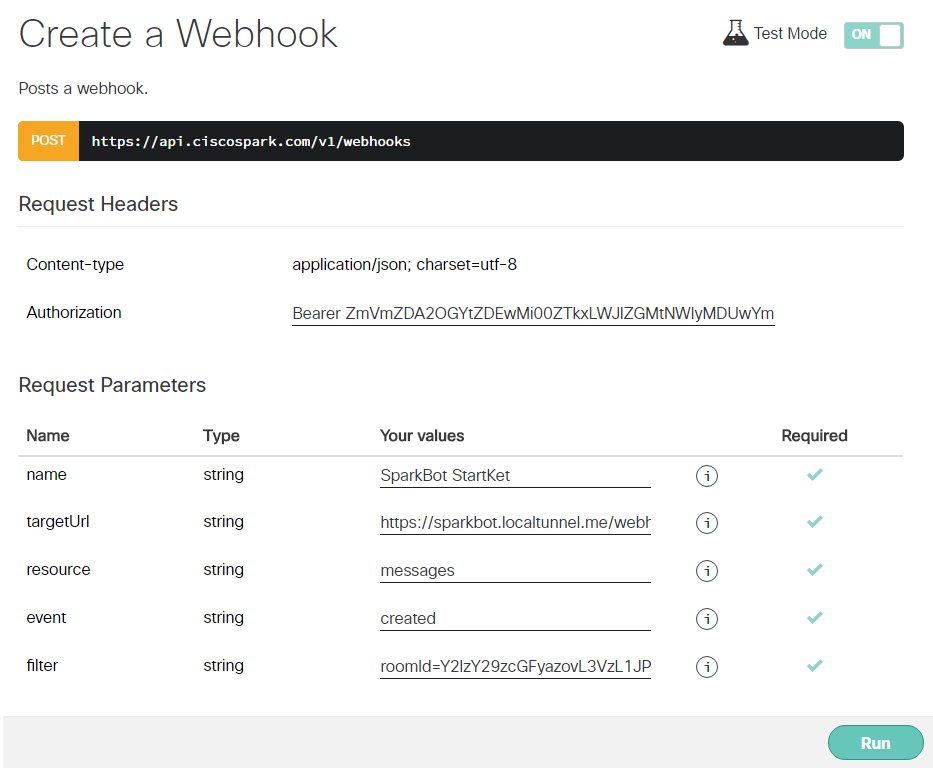
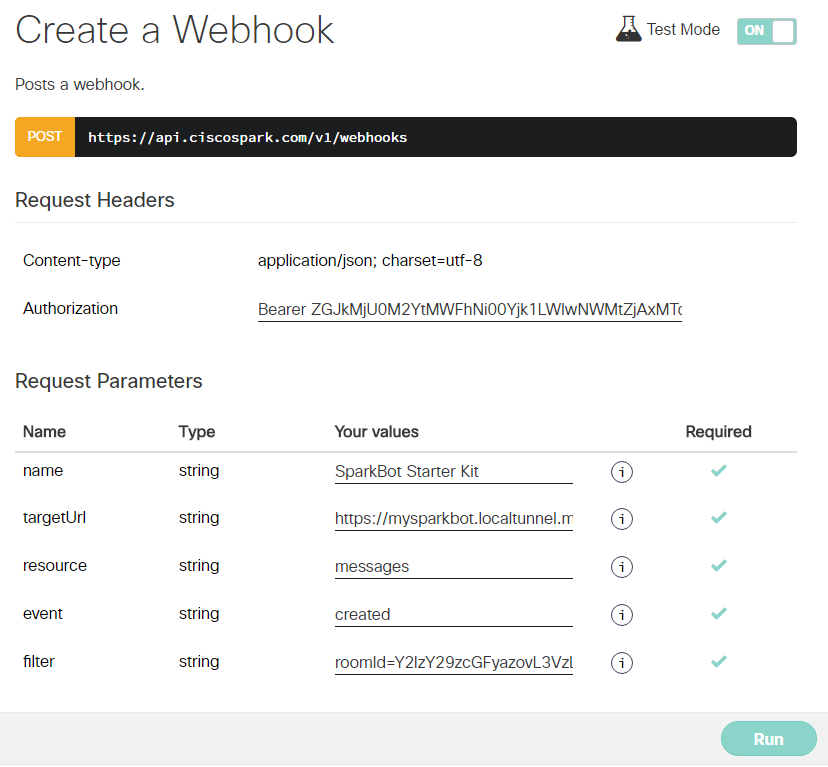
added basic outgoing sample, tested ok

diff --git a/sparkbot/bot.js b/sparkbot/bot.js
@@ -42,8 +42,8 @@ function Webhook(config) {
 	}
 
 	if (!config) {
-		console.log('bot configuration error');
-		throw createError('configuration: no api token found');
+		console.log('No configuration, exiting...');
+		throw createError('bot configuration error');
 	}
 
 	// type is webhook by default
@@ -88,13 +88,13 @@ function Webhook(config) {
 				res.status(400).json({message: 'This REST webhook is expecting an HTTP POST'});
 			})
 			.post(function (req, res) {
-				console.log('REST webhook invoked ');
+				console.log('REST webhook invoked');
 
 				// retreive message contents from spark
-				if (!req.body.data) {
+				if (!req.body || !req.body.data) {
 					console.log('Unexpected payload, check webhook configuration')
 					res.status(400).json({message: 'Wrong payload, a data payload is expected for REST webhooks',
-										  details: 'either the bot is misconfigured (should be an outgoing integration ?), or Cisco Spark is running a new API version'});
+										  details: 'either the bot is misconfigured or Cisco Spark is running a new API version'});
 					return;
 				}
 
@@ -103,11 +103,11 @@ function Webhook(config) {
 					'method': 'GET',
 					'hostname': 'api.ciscospark.com',
 					'path': '/v1/messages/' + newMessageEvent.id,
-					'headers': {'authorization': 'Bearer ' + sparkToken}
+					'headers': {'authorization': 'Bearer ' + config.token}
 				};
-				console.log('Asking for decrypted message: ' + JSON.stringify(message));
+				console.log('Asking for decrypted message');
 				var req = https.request(options, function (response) {
-					console.log('Received decrypted message: ' + JSON.stringify(message));
+					console.log('Received decrypted message, decoding');
 					var chunks = [];
 					response.on('data', function (chunk) {
 						chunks.push(chunk);

diff --git a/examples/basic-integration.js b/examples/basic-integration.js
@@ -1,7 +1,7 @@
 /*
  * Simple bot that echoes to the console as all new messages posted in a Cisco Spark Room
  *
- * Illustrate an Outgoing integration
+ * Illustrate a REST Webhook
  *
  * Check the documentation to set up this example
  *
@@ -9,9 +9,9 @@
 var SparkBot = require("../sparkbot");
 
 var config = {
-  attach_as: "integration"
-  //port: 8080,
-  //URI: "/integration"
+  attach_as: "integration",
+  port: 8080,
+  URI: "/integration"
 };
 
 // initialize and start bot
@@ -19,7 +19,7 @@ var bot = new SparkBot(config);
 
 // register a basic echo function
 bot.register(function(message) {
-  console.log("new message from " + message.personEmail + ": " + message.text)
+  console.log("New message from " + message.personEmail + ": " + message.text)
 });
 
 

diff --git a/examples/basic-webhook.js b/examples/basic-webhook.js
@@ -10,16 +10,16 @@ var config = {
   // bot spark api token, mandatory for webhooks
   token: process.env.SPARK_TOKEN,
 
-  //attach_as: "webhook",
-  //port: 8080,
-  //URI: "/sparkbot"
+  attach_as: "webhook",
+  port: 8080,
+  URI: "/webhook"
 };
 
 // init flint framework
 var bot = new SparkBot(config);
 
-// echo test
-//bot.process(function(message) {
-//  console.log("received text: " + message.text + ", from: " + message.personEmail)
-//});
+// register a basic echo function
+bot.register(function(message) {
+  console.log("New message from " + message.personEmail + ": " + message.text)
+});
 

diff --git a/docs/BasicWebhookSample.md b/docs/BasicWebhookSample.md
@@ -1,0 +1,93 @@
+# Basic example of REST Webhook
+
+illustrates how to setup a Cisco Spark bot, and attached it to a Room as a [REST Webhook](https://developer.ciscospark.com/webhooks-explained.html).
+
+Quick steps:
+
+1. Run the example
+
+2. Expose your sparkbot to the internet
+
+3. Attach your bot to a spark room
+
+4. Write a message in the room you attached you bot
+
+
+## Run the example
+
+Retreive your API token can be retreived by clicking on your picture, in the upper right of the [Web Portal documentation](https://developer.ciscospark.com/getting-started.html#).
+
+![](docs/img/SparkApiToken.png)
+
+Open a shell, clone the current github repository if you did not do it yet, then type the commands below.
+
+```
+> cd examples
+>  SPARK_TOKEN=ZGJkMjU0M2YtMWFhNi00Yjk1LWIwNWMtZjAxMTczMDljMDQyNzZlODQzNmYtZjBk    node basic-webhook.js
+Cisco Spark bot started
+REST webhook, running on port 8080
+```
+
+You can test your bot is running by hitting its health endpoint:
+
+```
+> curl -X GET http://localhost:8080/ping
+{
+ "message":"Congrats, your bot is up and running",
+ "isWebhook":true,
+ "isIntegration":false,
+ "URI":"http://localhost:8080/webhook"
+}
+```
+
+
+## Expose your bot to the internet
+
+You'll need a tunneling took such as [localtunnel](http://localtunnel.me) or [ngrok](https://ngrok.com).
+
+```
+> npm install -g localtunnel
+> lt -s mysparkbot -p 8080
+your url is: https://mysparkbot.localtunnel.me
+```
+
+
+## Attach your bot to a spark room
+
+You can either use the [WebHook intertactive documentation](https://developer.ciscospark.com/resource-webhooks.html), or leverage your favorite REST client (curl, Postman...).
+This guide leverages the interactive documentation.
+
+First, we'll pick the id of the Room you want to attach to. Go to the [List Rooms page](https://developer.ciscospark.com/endpoint-rooms-get.html).
+
+![](img/ListRooms.png)
+
+Toogle Test mode to on. Run the request, navigate to a Room from the list displayed in the right pane. Copy page the id of the Room, here Y2lzY29zcGFyazovL3VzL1JPT00vMjQ4ZTQ3OTAtZWJjZi0xMWU1LTkyMjEtMTVmMTZiMmJlZjUx.
+
+![](img/PickRoomId.png)
+
+Then, go to the[ Webhook creation page](https://developer.ciscospark.com/endpoint-webhooks-post.html), and fill in the form.
+Specify the targetUrl you chose when exposing your webhook, here https://mysparkbot.localtunnel.me/webhook.
+
+![](img/AddWebhookViaAPI.png)
+
+Run the webhook creation, and check you get a 200 OK in the right pane:
+
+![](img/AddWebhookViaAPI-feedback.png)
+
+
+## Test your bot
+
+Write a message in the room you attached your bot to.
+
+The bot should write to the console:
+
+```
+> SPARK_TOKEN=ZGJkMjU0M2YtMXXXX  node basic-webhook.js
+Cisco Spark bot started
+REST webhook, running on port 8080
+REST webhook invoked
+Asking for decrypted message
+Received decrypted message, decoding
[1 lines of base64/hex data omitted]
+New message from stsfartz@cisco.com: completed the basic webhook sample
+```

diff --git a/docs/BasicIntegrationSample.md b/docs/BasicIntegrationSample.md
@@ -1,17 +1,16 @@
 # Basic example of Outgoing integration
 
-illustrates how to setup a Cisco Spark bot, and attached it to a Room as an Outgoing integration
+illustrates how to setup a Cisco Spark bot, and attached it to a Room as an Outgoing [integration](https://developer.ciscospark.com/integrations.html).
 
-Quick steps
+Quick steps:
 
 1. Run the example
 
-2. Expose your sparkbot to the internet
+2. Expose your bot to the internet
 
-3. Attach it to a spark room
+3. Attach your bot to a spark room
 
 4. Write a message in the room you attached you bot
-
 
 
 ## Run the example
@@ -48,9 +47,9 @@ curl -X POST -H "Content-Type: application/json" \
 ```
 
 
-## Expose your sparkbot to the internet
+## Expose your bot to the internet
 
-You'll need a tunneling took such as ngrok, localtunnel
+You'll need a tunneling took such as [localtunnel](http://localtunnel.me) or [ngrok](https://ngrok.com).
 
 ```
 > npm install -g localtunnel
@@ -58,24 +57,45 @@ You'll need a tunneling took such as ngrok, localtunnel
 your url is: https://mysparkbot.localtunnel.me
 ```
 
+You can test your bot is exposed on the internet by hitting its health endpoint again. 
 
-## Attach your sparkbot to a spark room
+Note: we'll use the https 
+
+```
+> curl -X GET http://mysparkbot.localtunnel.me/ping
+{
+ "message":"Congrats, your bot is up and running",
+ "isWebhook":false,
+ "isIntegration":true,
+ "URI":"http://localhost:8080/"
+}
+```
+
+
+
+
+## Attach your bot to a spark room
 
 Launch the Cisco Spark Web client : https://web.ciscospark.com
 
-Go to the right pane, locate the Integrations section, ![](img/AddOutgoingIntegration-ViaWebClient-Step0.png)
+Go to the right pane, locate the Integrations section:
 
-Select Add integration, scroll down and click the Outgoing integration ![](img/AddOutgoingIntegration-ViaWebClient-Step1.png)
+  ![](img/AddOutgoingIntegration-ViaWebClient-Step0.png)
 
-Go through the wizard, choose a room and specify your bot endpoint: https://mysparkbot.localtunnel.me, ![](img/AddOutgoingIntegration-ViaWebClient-Step3.png)
+Select Add integration, scroll down and click the Outgoing integration:
+
+  ![](img/AddOutgoingIntegration-ViaWebClient-Step1.png)
+
+Go through the wizard, choose a room and specify your bot endpoint: https://mysparkbot.localtunnel.me
+
+  ![](img/AddOutgoingIntegration-ViaWebClient-Step3.png)
 
 
 ## Test your bot
 
-Write a message in the room you attached your bot to,
+Write a message in the room you attached your bot to.
 
-The bot should write to the console
-
+The bot should write to the console:
 
 ```
 > node basic-integration.js
@@ -83,5 +103,5 @@ Cisco Spark bot started
 Outgoing integration, running on port 8080
 Outgoing integration invoked
[1 lines of base64/hex data omitted]
-new message from stsfartz@cisco.com: Completed the basic outgoing integration sample
+New message from stsfartz@cisco.com: Completed the basic outgoing integration sample
 ```
